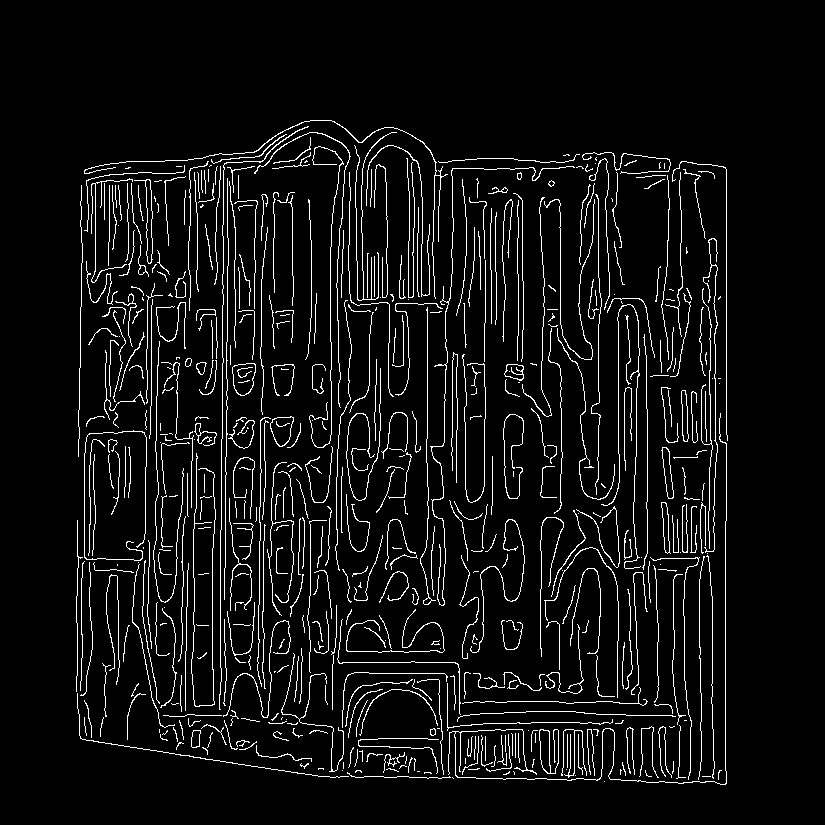
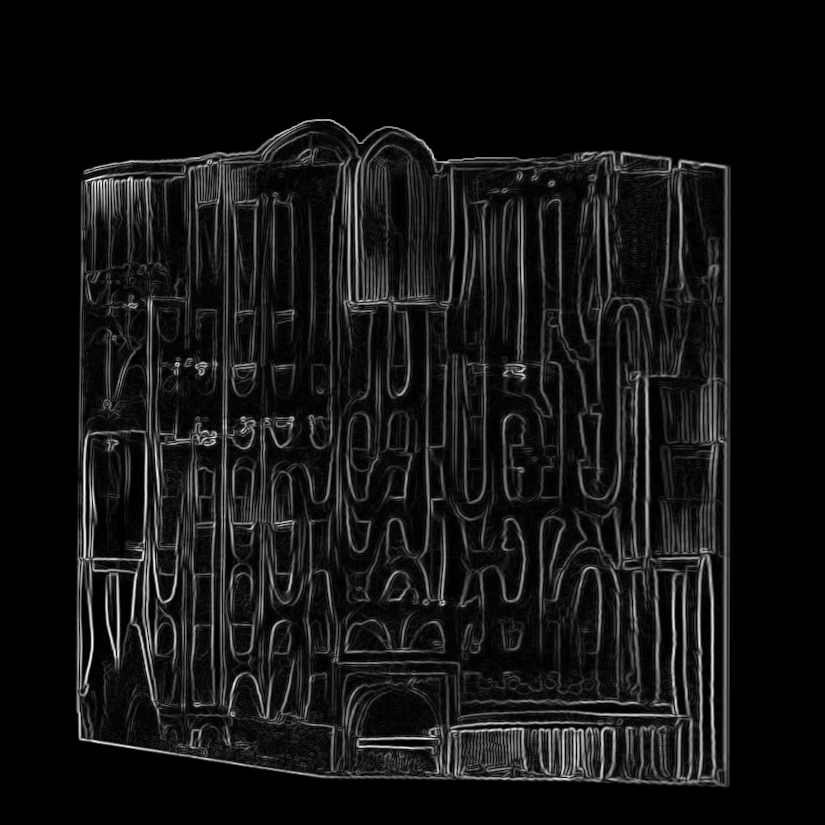
changed mid folder to hold prewitt edges

Changed region(s): [[0.0909, 0.1212, 0.9091, 0.9697]]

diff --git a/edge/detect_edge.py b/edge/detect_edge.py
@@ -24,13 +24,13 @@ for image in images:
     im = rgb2gray(io.imread(input_dir + "/" + image))
 
     #edges1 = feature.canny(im)
-    edges2 = feature.canny(im, sigma=2)
+    #edges2 = feature.canny(im, sigma=2)
     #edges3 = roberts(im)
     #edges4 = sobel(im)
     #edges5 = scharr(im)
-    #edges6 = prewitt(im)
+    edges6 = prewitt(im)
 
-    scipy.misc.imsave(mid_dir + "/" + image_name + '.png', edges2)
+    scipy.misc.imsave(mid_dir + "/" + image_name + '.png', edges6)
  
 """
 fig, (ax1, ax2, ax3, ax4, ax5, ax6) = plt.subplots(nrows=1, ncols=6, figsize=(10,5),
